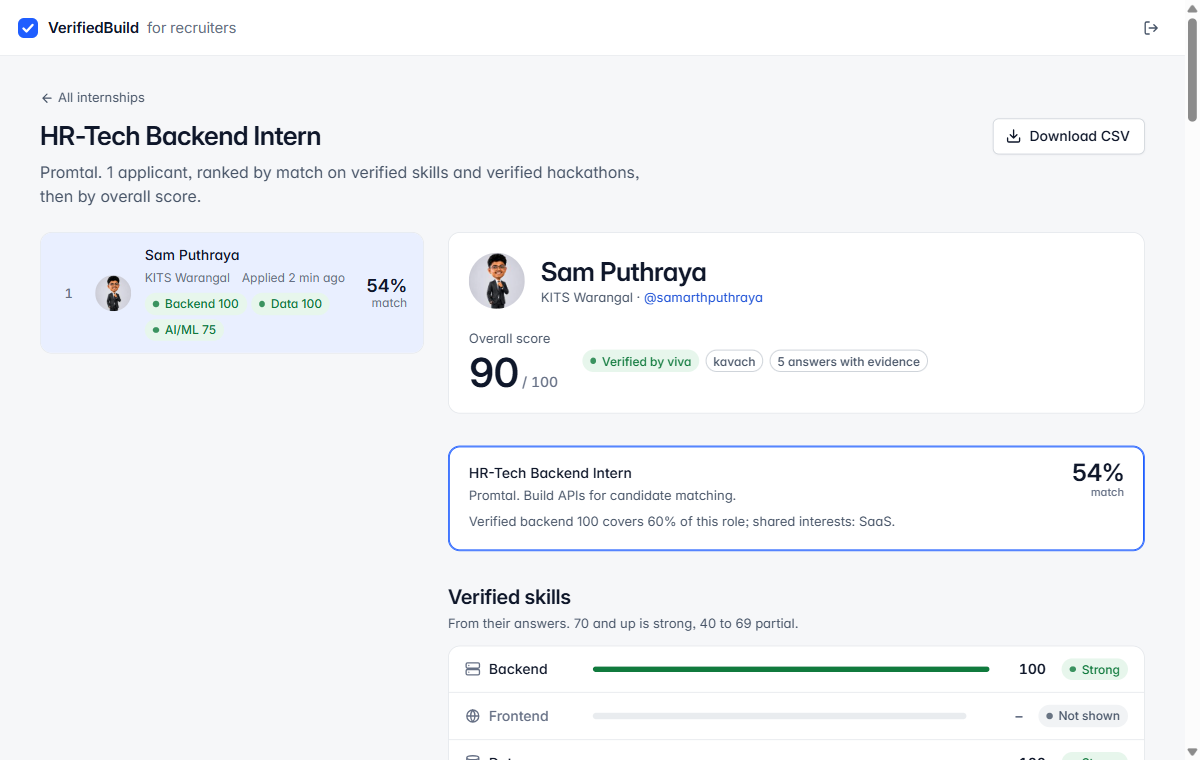
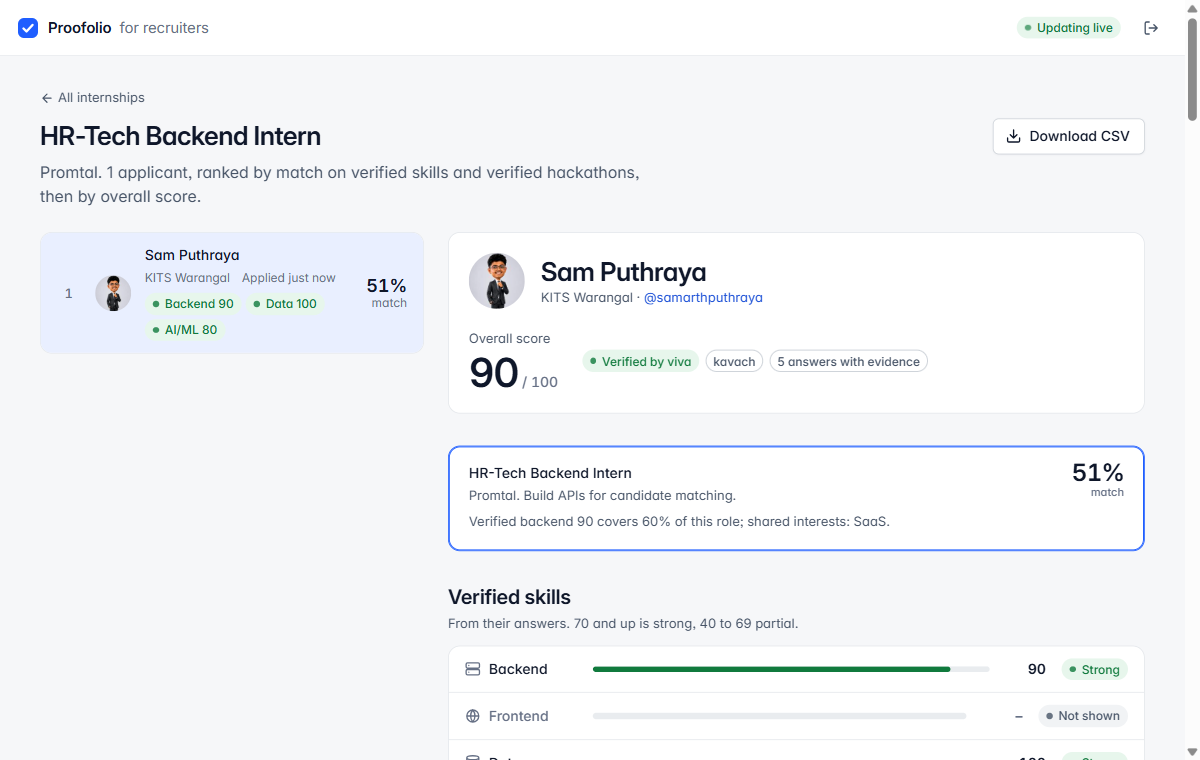
Rename the product to Proofolio in the web app, dashboard and landing page; new screenshots; landing top bar fits on phones

diff --git a/web/index.html b/web/index.html
@@ -7,28 +7,28 @@
   <meta name="theme-color" content="#ffffff" media="(prefers-color-scheme: light)">
   <meta name="theme-color" content="#13161b" media="(prefers-color-scheme: dark)">
   <meta name="description" content="Students answer 5 questions about their own GitHub code. Internships are matched, and applicants ranked, on the skills they show.">
-  <title>VerifiedBuild</title>
+  <title>Proofolio</title>
   <link rel="icon" href="/favicon.svg" type="image/svg+xml">
   <link rel="preload" href="/fonts/inter.woff2" as="font" type="font/woff2" crossorigin>
   <link rel="stylesheet" href="/styles.css">
 </head>
 <body>
   <header class="topbar">
-    <a class="brand" href="/"><svg class="mark" viewBox="0 0 24 24" aria-hidden="true"><rect x="2" y="2" width="20" height="20" rx="6" fill="#1f5eff"/><path d="M7.5 12.5l3 3 6-6.5" fill="none" stroke="#fff" stroke-width="2.4" stroke-linecap="round" stroke-linejoin="round"/></svg>VerifiedBuild</a>
+    <a class="brand" href="/"><svg class="mark" viewBox="0 0 24 24" aria-hidden="true"><rect x="2" y="2" width="20" height="20" rx="6" fill="#1f5eff"/><path d="M7.5 12.5l3 3 6-6.5" fill="none" stroke="#fff" stroke-width="2.4" stroke-linecap="round" stroke-linejoin="round"/></svg>Proofolio</a>
     <span class="spacer"></span>
     <a class="btn ghost" href="/recruiter/">For recruiters</a>
-    <a class="btn" href="/app/">Verify my skills</a>
+    <a class="btn hide-sm" href="/app/">Verify my skills</a>
   </header>
   <main class="landing">
     <section class="hero">
       <h1 class="display">Internship matching on verified skills.</h1>
-      <p class="lead">Anyone can ship a project with AI now, so a repo alone doesn't show skill. VerifiedBuild reads a student's GitHub repo and asks them five questions about their own code, out loud or typed, in any language. Their answers become a skill report with evidence, and internships are matched on what they showed.</p>
+      <p class="lead">Anyone can ship a project with AI now, so a repo alone doesn't show skill. Proofolio reads a student's GitHub repo and asks them five questions about their own code, out loud or typed, in any language. Their answers become a skill report with evidence, and internships are matched on what they showed.</p>
       <div class="actions">
         <a class="btn lg" href="/app/">Verify my skills</a>
         <a class="btn lg secondary" href="/recruiter/">Open the recruiter dashboard</a>
       </div>
     </section>
-    <div class="shot"><img src="/img/report.png" width="1200" height="760" alt="A student's VerifiedBuild report: an overall score, six skills with scores and levels, claimed versus verified skills, and internship matches." loading="eager"></div>
+    <div class="shot"><img src="/img/report.png" width="1200" height="760" alt="A student's Proofolio report: an overall score, six skills with scores and levels, claimed versus verified skills, and internship matches." loading="eager"></div>
 
     <section class="steps3" aria-label="How it works">
       <div class="card"><span class="n">1</span><h2 class="h3">Pick a repo</h2><p class="small muted">A project from your own GitHub, or a team repo you committed to. We read the code that matters and skip libraries and generated files.</p></div>

diff --git a/web/app/app.js b/web/app/app.js
@@ -1,4 +1,4 @@
-// VerifiedBuild student app: sign up → pick a repo → what we found → 5 questions (voice or text) → report → apply.
+// Proofolio student app: sign up → pick a repo → what we found → 5 questions (voice or text) → report → apply.
 // React-style components on Preact (htm, no build step). Shared pieces live in /ui.js.
 
 import {
@@ -54,7 +54,7 @@ function Shell({ page, focus, onSignOut, children }) {
   const nav = (cls) => NAV.map(([id, label, icon]) => html`<a class=${cls} href=${`#/${id}`} aria-current=${id === page ? "page" : null}><${Icon} name=${icon} size=${cls === "tab" ? "lg" : ""} /><span>${label}</span></a>`);
   return html`
     ${focus ? null : html`<header class="topbar">
-      <a class="brand" href="#/home"><${Mark} />VerifiedBuild</a>
+      <a class="brand" href="#/home"><${Mark} />Proofolio</a>
       <span class="spacer"></span>
       ${me.id() ? html`<button class="icon-btn" type="button" aria-label="Account" title="Account" onClick=${onSignOut}><${Avatar} username=${me.github()} size="sm" /></button>` : null}
     </header>`}
@@ -606,7 +606,7 @@ function Done({ onLost }) {
 
 const justApplied = new Set();
 async function apply(m, reload) {
-  const ok = await confirm({ title: `Apply to ${m.venture}?`, text: `${m.title}. Applying shares your VerifiedBuild report (scores, answers, code evidence and hackathons) with ${m.venture} for this role. Nobody else sees it.`, confirmText: "Apply", consent: `I agree to share my report with ${m.venture}.` });
+  const ok = await confirm({ title: `Apply to ${m.venture}?`, text: `${m.title}. Applying shares your Proofolio report (scores, answers, code evidence and hackathons) with ${m.venture} for this role. Nobody else sees it.`, confirmText: "Apply", consent: `I agree to share my report with ${m.venture}.` });
   if (!ok) return;
   try {
     await api("/api/apply", { method: "POST", body: { student_id: me.id(), listing_id: m.listing_id, share_consent: true } });

diff --git a/web/recruiter/app.js b/web/recruiter/app.js
@@ -1,4 +1,4 @@
-// VerifiedBuild recruiter dashboard: sign in → internships → ranked applicants → one candidate's report.
+// Proofolio recruiter dashboard: sign in → internships → ranked applicants → one candidate's report.
 // React-style components on Preact (htm, no build step). Shared pieces live in /ui.js.
 
 import {
@@ -60,7 +60,7 @@ function Shell({ signedIn, onSignOut, wide, children }) {
   const live = useLive();
   return html`
     <header class="topbar">
-      <a class="brand" href="#/"><${Mark} />VerifiedBuild <span class="sub">for recruiters</span></a>
+      <a class="brand" href="#/"><${Mark} />Proofolio <span class="sub">for recruiters</span></a>
       <span class="spacer"></span>
       ${live ? html`<${Tag} kind=${live === "ok" ? "ok live" : ""}>${live === "ok" ? "Updating live" : "Reconnecting"}<//>` : null}
       ${signedIn ? html`<button class="icon-btn" type="button" aria-label="Sign out" title="Sign out" onClick=${onSignOut}><${Icon} name="logout" /></button>` : null}
@@ -85,7 +85,7 @@ function SignIn({ message, onDone }) {
     finally { setBusy(false); }
   }
   return html`<form class="signin fade" novalidate onSubmit=${submit}>
-    <div><h1 class="h1">Recruiter sign-in</h1><p class="small muted" style="margin-top:0.375rem">Enter the passcode from the VerifiedBuild team to see who applied to your internships, ranked by the skills they verified.</p></div>
+    <div><h1 class="h1">Recruiter sign-in</h1><p class="small muted" style="margin-top:0.375rem">Enter the passcode from the Proofolio team to see who applied to your internships, ranked by the skills they verified.</p></div>
     <${Field} id="passcode" label="Passcode" type="password" value=${pass} onInput=${(e) => { setPass(e.target.value); setErr(""); }} state=${err ? "error" : ""} hint=${err} attrs=${{ autocomplete: "current-password", autofocus: true }} />
     <${Button} type="submit" size="lg" busy=${busy} block>Sign in<//>
   </form>`;

diff --git a/web/app/index.html b/web/app/index.html
@@ -7,7 +7,7 @@
   <meta name="theme-color" content="#ffffff" media="(prefers-color-scheme: light)">
   <meta name="theme-color" content="#13161b" media="(prefers-color-scheme: dark)">
   <meta name="description" content="Pick one of your GitHub repos, answer 5 questions about your own code, and get matched to internships on the skills you show.">
-  <title>VerifiedBuild</title>
+  <title>Proofolio</title>
   <link rel="icon" href="/favicon.svg" type="image/svg+xml">
   <link rel="apple-touch-icon" href="/icons/icon-192.png">
   <link rel="manifest" href="/app/manifest.webmanifest">
@@ -19,6 +19,6 @@
 </head>
 <body>
   <div id="root"></div>
-  <noscript><main class="main"><p>VerifiedBuild needs JavaScript turned on.</p></main></noscript>
+  <noscript><main class="main"><p>Proofolio needs JavaScript turned on.</p></main></noscript>
 </body>
 </html>

diff --git a/web/recruiter/index.html b/web/recruiter/index.html
@@ -6,7 +6,7 @@
   <meta http-equiv="Content-Security-Policy" content="default-src 'self'; img-src 'self' data: https://github.com https://avatars.githubusercontent.com; style-src 'self'; script-src 'self'; connect-src 'self'; font-src 'self'; base-uri 'none'; form-action 'self'">
   <meta name="theme-color" content="#ffffff" media="(prefers-color-scheme: light)">
   <meta name="theme-color" content="#13161b" media="(prefers-color-scheme: dark)">
-  <title>VerifiedBuild for recruiters</title>
+  <title>Proofolio for recruiters</title>
   <link rel="icon" href="/favicon.svg" type="image/svg+xml">
   <link rel="preload" href="/fonts/inter.woff2" as="font" type="font/woff2" crossorigin>
   <link rel="modulepreload" href="/vendor/preact-htm.js">

diff --git a/web/ui.js b/web/ui.js
@@ -52,7 +52,7 @@ export async function api(path, { method = "GET", body, headers = {}, raw = fals
   const opts = { method, headers: { Accept: raw ? "text/csv" : "application/json", ...headers }, cache: "no-store" };
   if (body !== undefined) { opts.headers["Content-Type"] = "application/json"; opts.body = JSON.stringify(body); }
   let res;
-  try { res = await fetch(path, opts); } catch { throw new ApiError("NETWORK", "Can't reach VerifiedBuild. Check your connection and try again.", 0); }
+  try { res = await fetch(path, opts); } catch { throw new ApiError("NETWORK", "Can't reach Proofolio. Check your connection and try again.", 0); }
   if (!res.ok) {
     let data = null;
     try { data = await res.json(); } catch { /* not JSON */ }

diff --git a/web/styles.css b/web/styles.css
@@ -1,4 +1,4 @@
-/* VerifiedBuild web. A plain product UI: one typeface, a neutral palette with one blue, an 8 px grid,
+/* Proofolio web. A plain product UI: one typeface, a neutral palette with one blue, an 8 px grid,
    borders instead of shadows, and motion only where it shows a change. Light and dark.
    Type: Inter (UI) and JetBrains Mono (code), both OFL, served from /fonts. */
 
@@ -416,6 +416,7 @@ dialog[open] { animation: dialog-in 140ms var(--ease); }
 
 /* ---------- Small screens ---------- */
 @media (max-width: 599px) {
+  .hide-sm { display: none; }
   .h1 { font-size: 1.375rem; line-height: 1.75rem; }
   .display { font-size: 2rem; line-height: 2.25rem; }
   .fields.two { grid-template-columns: 1fr; }
